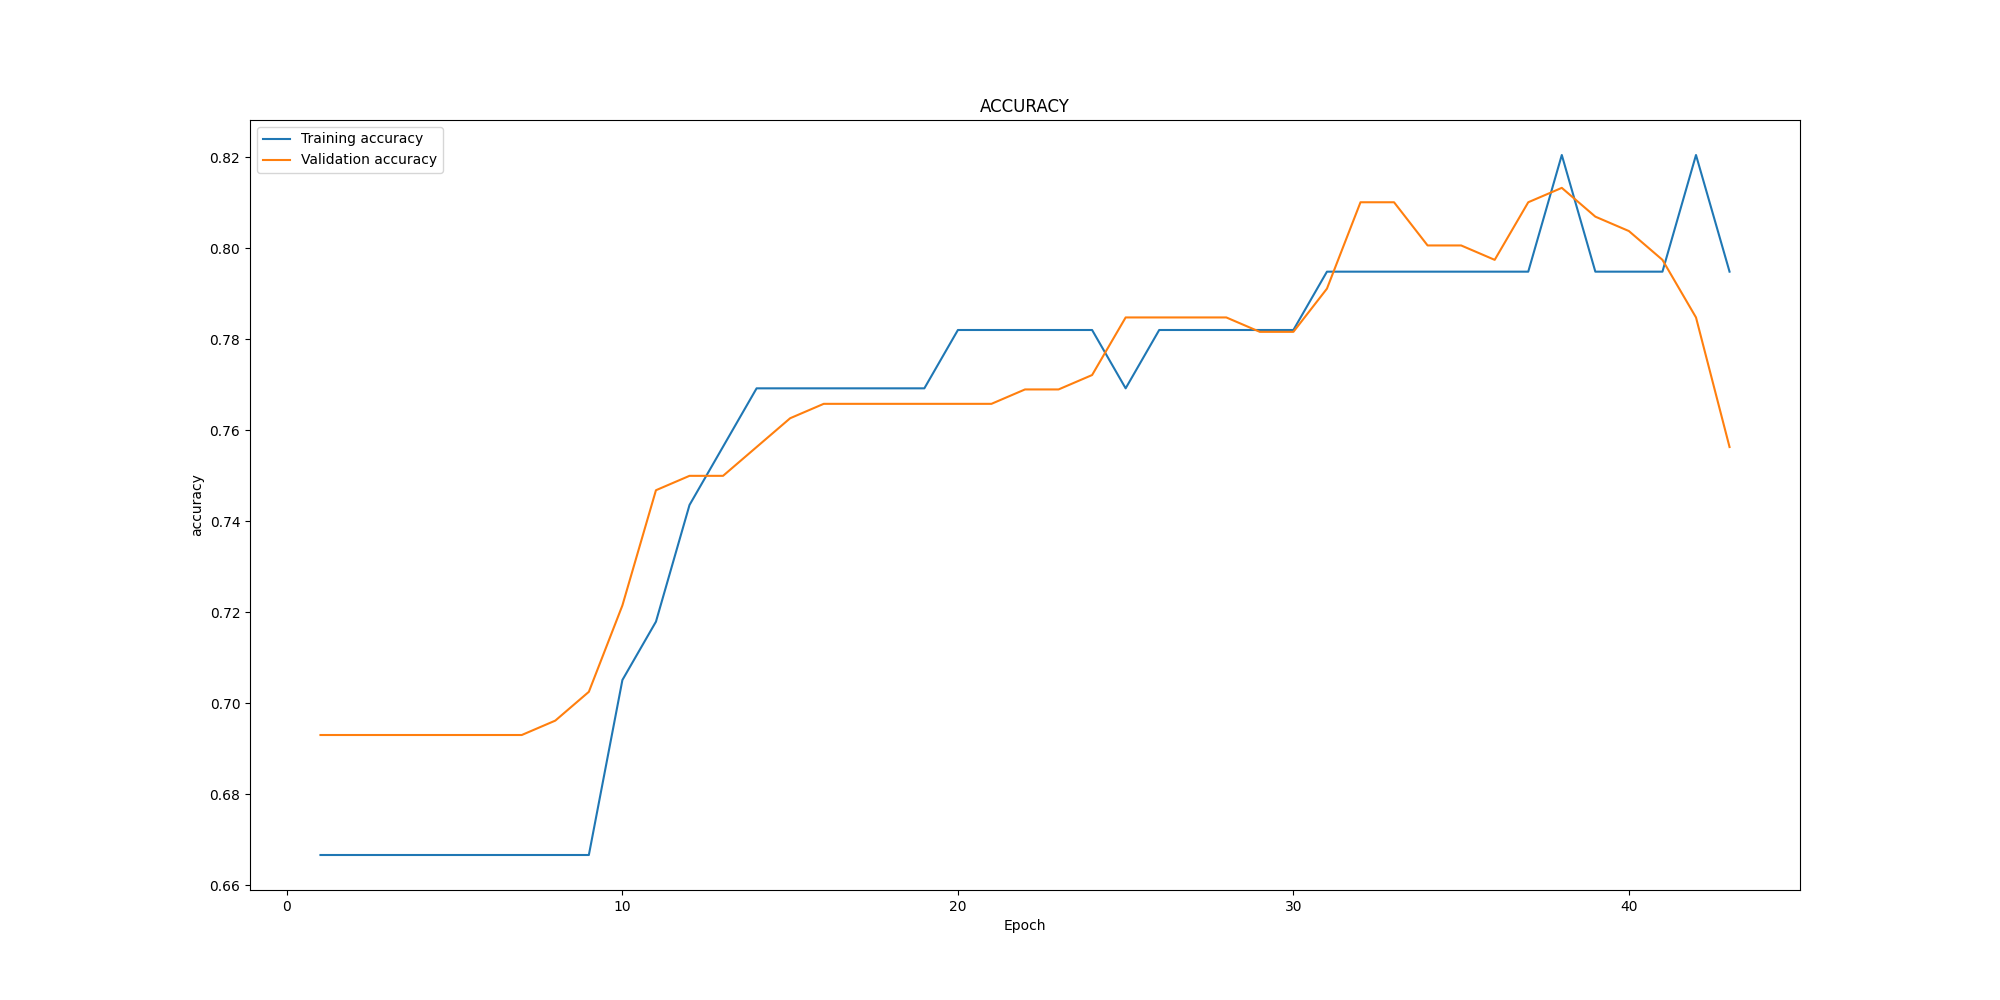
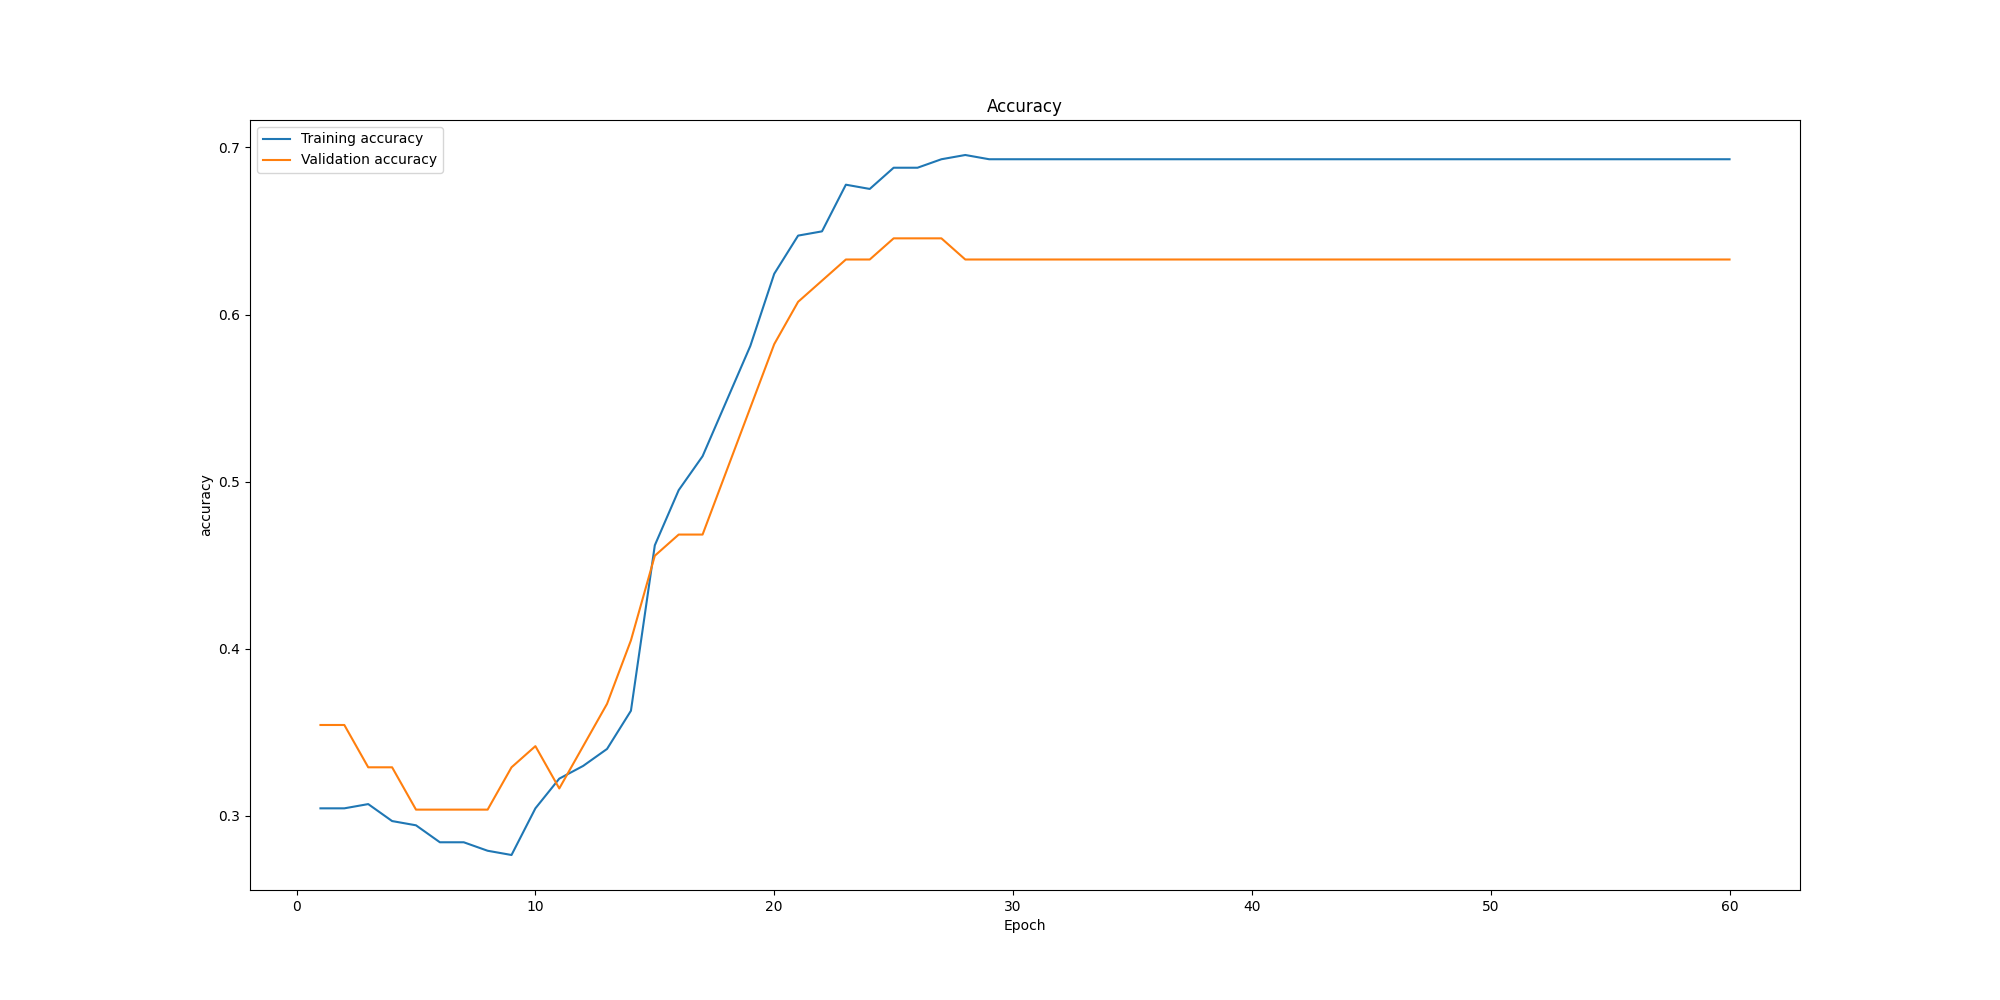
Hyperparameters tuning refactoring

diff --git a/main.py b/main.py
@@ -2,12 +2,12 @@ import pandas as pd
 import matplotlib.pyplot as plt
 import seaborn as sns
 import tensorflow as tf
-from hyperopt import hp, tpe, Trials, fmin, space_eval, STATUS_OK
-import numpy as np 
 import functions as fun
+from sklearn.model_selection import RandomizedSearchCV
 from sklearn.linear_model import LogisticRegression
 from sklearn.metrics import accuracy_score
 from sklearn.tree import DecisionTreeClassifier
+
 
 dataset = pd.read_csv('loan-train.xls')
 dataset.info()
@@ -28,19 +28,22 @@ dataset['Loan_Status'] = dataset['Loan_Status'].map({'Y': 1.0, 'N': 0.})
 for i in dataset.columns[1:]:
     dataset[i] = (dataset[i] - dataset[i].min()) / (dataset[i].max() - dataset[i].min())
 
-train_set = dataset.sample(frac=0.8, random_state=42)
+train_set = dataset.sample(frac=0.8, random_state=1)
 test_set = dataset.drop(train_set.index)
+valid_set = train_set.sample(frac=0.2, random_state=1)
 
 x_train = train_set[['Dependents', 'Self_Employed', 'ApplicantIncome',
                     'CoapplicantIncome', 'LoanAmount', 'Loan_Amount_Term',
                     'Credit_History', 'Property_Area']]
 y_train = train_set['Loan_Status']
-
+x_valid = valid_set[['Dependents', 'Self_Employed', 'ApplicantIncome',
+                         'CoapplicantIncome', 'LoanAmount', 'Loan_Amount_Term',
+                         'Credit_History', 'Property_Area']]
+y_valid = valid_set['Loan_Status']
 x_test = test_set[['Dependents', 'Self_Employed', 'ApplicantIncome',
                          'CoapplicantIncome', 'LoanAmount', 'Loan_Amount_Term',
                          'Credit_History', 'Property_Area']]
 y_test = test_set['Loan_Status']
-
 
 """
 DATA EXPLORATION
@@ -65,58 +68,58 @@ plt.title('Correlation Matrix')
 plt.savefig('./data_ex/correlation.png')
 plt.show()
 
-
-# Hyperfunction for hyperparameter tuning
-def hyperfunc(params):
-    model1 = fun.train_hyper_param_model(x_train, y_train, params, epochs=15)
-    test_loss, test_acc = model1.evaluate(x_test, y_test)
-
-    return {'loss': test_loss, 'accuracy': test_acc, 'status': STATUS_OK}
-
 """
 MAIN 
 """
 
 def main():
 
-    search_space = {
-        'layer1_size': hp.choice('layer1_size', np.arange(1, 20, 2)),
-        'layer2_size': hp.choice('layer2_size', np.arange(1, 10, 1)),
-        'learning_rate': hp.loguniform('learning_rate', -10, 0)
-    }
-    trials = Trials()
-    best = fmin(hyperfunc, search_space, algo=tpe.suggest, max_evals=5, trials=trials)
-    print(space_eval(search_space, best))
-
-    fun.hyper_plots(trials, 'accuracy')
-    fun.hyper_plots(trials, 'loss')
-
-    # Neural net model 
-    model1 = fun.loan_elig_model()
-    model1.compile(optimizer=tf.keras.optimizers.Adam(learning_rate=0.01), 
-                  loss=tf.keras.losses.binary_crossentropy,
-                  metrics=['accuracy'])
-    history = model1.fit(x_train, y_train, epochs=60, validation_split=0.8, callbacks=[
-        tf.keras.callbacks.EarlyStopping(monitor='val_loss', patience=10)])
-    fun.plot_metrics(history, 'loss', 'LOSS')
-    fun.plot_metrics(history, 'accuracy', 'ACCURACY')
-    test_loss, test_accuracy = model1.evaluate(x_test, y_test)
-    print("Test loss:", test_loss)
-    print("Test accuracy:", test_accuracy)
-
+    tf.random.set_seed(1)
+    print('--- Initialising neural net model ---')
+    model = fun.loan_elig_model()
+    print('--- Training with starting hyperparameters set ---')
+    history = model.fit(x_train, y_train, epochs=60, validation_data=(x_valid, y_valid), batch_size=32)
+    fun.plot_metrics(history, 'loss', 'Loss')
+    fun.plot_metrics(history, 'accuracy', 'Accuracy')
+    loss, accuracy = model.evaluate(x_test, y_test)
+    print("Accuracy on test set with no hyperparameters tuning {:.2f}".format(accuracy))
+    print("Loss on test set with no hyperparameters tuning {:.2f}".format(loss))
+    print('--- Hyperparameters tuning using RandomSearch ---')
+    model = tf.keras.wrappers.scikit_learn.KerasClassifier(build_fn=fun.loan_elig_model, verbose=0)
+    layer1_size = [2,10,20,30,40,50,60,70,80,90,100]
+    layer2_size = [3,5,10,15,20,25,30,35,40,45,50,55,60] 
+    learning_rate = [0.01, 0.001, 0.0001]
+    batch_size = [4,8,16,32]
+    epochs = [10,20,30,40,50,60,70,80,100]
+    grid = dict(
+        layer1_size=layer1_size,
+        layer2_size=layer2_size,
+        learning_rate=learning_rate,
+        batch_size=batch_size,
+        epochs=epochs
+    )   
+    searcher = RandomizedSearchCV(estimator=model, n_jobs=-1, cv=5, param_distributions=grid, n_iter=50, scoring=('accuracy'))
+    search_results = searcher.fit(x_valid, y_valid)
+    best_score = search_results.best_score_
+    best_params = search_results.best_params_
+    print('Best score is {:.2f} using {}'.format(best_score, best_params))
+    best_model = search_results.best_estimator_
+    accuracy = best_model.score(x_test, y_test)
+    print("Accuracy on test set {:.2f}".format(accuracy))
+    
     # Logistic regression
     model2 = LogisticRegression()
     model2.fit(x_train, y_train)
     y_pred = model2.predict(x_test)
-
     accuracy = accuracy_score(y_test, y_pred)
+    print('----- Logistic regression -----')
     print('Accuracy:', accuracy)
-
     # Decision tree classifier
     dt = DecisionTreeClassifier()
     dt.fit(x_train, y_train)
     y_pred = dt.predict(x_test)
     acc = accuracy_score(y_test, y_pred)
+    print('----- Decision tree classifier -----')
     print('Accuracy:', acc)
 
 

diff --git a/functions.py b/functions.py
@@ -1,6 +1,5 @@
 import tensorflow as tf 
 import matplotlib.pyplot as plt
-from hyperopt import STATUS_OK, Trials
 
 
 def plot_metrics(history, metric:str, title:str):
@@ -18,58 +17,13 @@ def plot_metrics(history, metric:str, title:str):
     plt.show()
 
 
-def loan_elig_model():
+def loan_elig_model(layer1_size=2, layer2_size=3, learning_rate=0.001):
     model = tf.keras.models.Sequential()
     model.add(tf.keras.layers.InputLayer(input_shape=(8)))
-    model.add(tf.keras.layers.Dense(10, activation='relu'))
-    model.add(tf.keras.layers.Dense(5, activation='relu'))
+    model.add(tf.keras.layers.Dense(layer1_size, activation='relu'))
+    model.add(tf.keras.layers.Dense(layer2_size, activation='relu'))
     model.add(tf.keras.layers.Dense(1, activation='sigmoid'))
-
-    return model
-
-
-def train_hyper_param_model(x_training, y_training, params, epochs):
-    model = tf.keras.models.Sequential()
-    model.add(tf.keras.layers.InputLayer(input_shape=(8)))
-    model.add(tf.keras.layers.Dense(params['layer1_size'], activation='relu'))
-    model.add(tf.keras.layers.Dense(params['layer2_size'], activation='relu'))
-    model.add(tf.keras.layers.Dense(1, activation='sigmoid'))
-    model.compile(optimizer=tf.keras.optimizers.Adam(learning_rate=params['learning_rate']),
+    model.compile(optimizer=tf.keras.optimizers.Adam(learning_rate=learning_rate),
                   loss=tf.keras.losses.binary_crossentropy, metrics=['accuracy'])
-    model.fit(x_training, y_training, epochs=epochs)
 
     return model
-
-
-def hyper_plots(trials, metrics:str):
-    
-    _, (ax1, ax2, ax3, ax4) = plt.subplots(1, 4, sharey=True)
-    xs = [t['tid'] for t in trials.trials]
-    ys = [t['result'][metrics] for t in trials.trials]
-    ax1.set_xlim(xs[0]-1, xs[-1]+1)
-    ax1.scatter(xs, ys, s=20)
-    ax1.set_xlabel('Iteration')
-    ax1.set_ylabel(metrics)
-
-    xs = [t['misc']['vals']['layer1_size'] for t in trials.trials]
-    ys = [t['result'][metrics] for t in trials.trials]
-
-    ax2.scatter(xs, ys, s=20)
-    ax2.set_xlabel('Layer1_size')
-    ax2.set_ylabel(metrics)
-
-    xs = [t['misc']['vals']['layer2_size'] for t in trials.trials]
-    ys = [t['result'][metrics] for t in trials.trials]
-
-    ax3.scatter(xs, ys, s=20)
-    ax3.set_xlabel('Layer2_size')
-    ax3.set_ylabel(metrics)
-
-    xs = [t['misc']['vals']['learning_rate'] for t in trials.trials]
-    ys = [t['result'][metrics] for t in trials.trials]
-
-    ax4.scatter(xs, ys, s=20)
-    ax4.set_xlabel('learning_rate')
-    ax4.set_ylabel(metrics)
-    plt.savefig('./hyper_opt/' + metrics +'.png')
-    plt.show()
